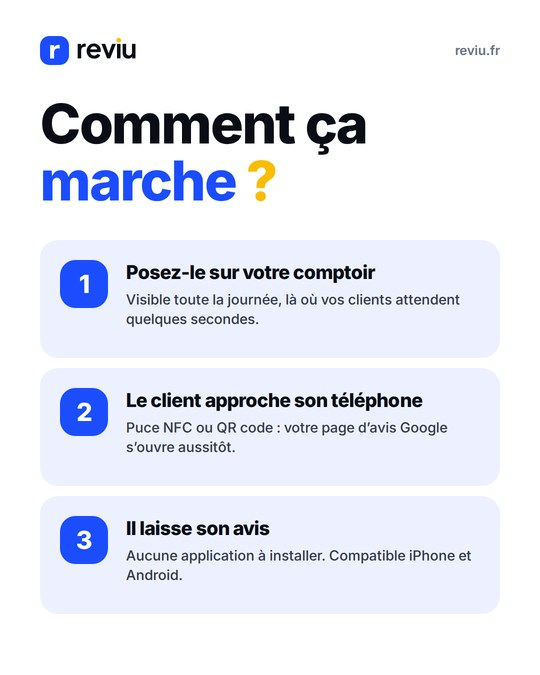
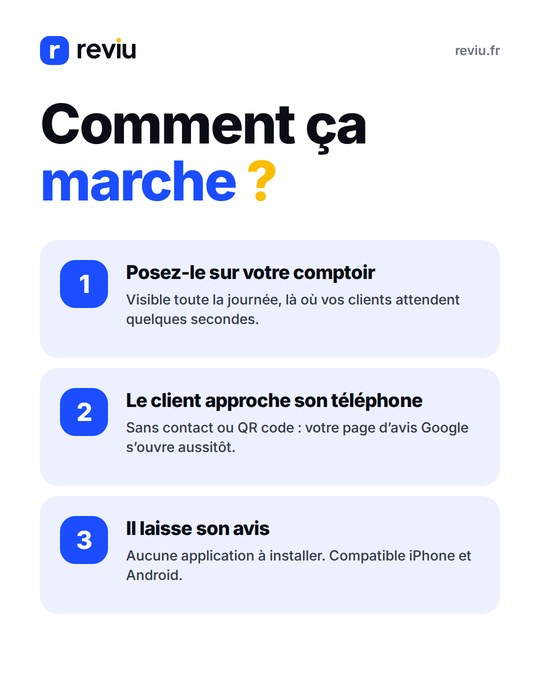
Charte graphique : vocabulaire « Présentoir Reviu » dans les gabarits
Claude-Session: https://claude.ai/code/session_01CiP53sziPvu6eCSHGXHRLu

Changed region(s): [[0.237, 0.6222, 0.8593, 0.6533]]

diff --git a/brand/sources/build.py b/brand/sources/build.py
@@ -146,7 +146,7 @@ def posts():
     inner += HEAD(80, 190, 940, f"Comment ça<br>{c('marche')} {g('?')}", 110)
     steps = [
         ("1", "Posez-le sur votre comptoir", "Visible toute la journée, là où vos clients attendent quelques secondes."),
-        ("2", "Le client approche son téléphone", "Puce NFC ou QR code : votre page d’avis Google s’ouvre aussitôt."),
+        ("2", "Le client approche son téléphone", "Sans contact ou QR code : votre page d’avis Google s’ouvre aussitôt."),
         ("3", "Il laisse son avis", "Aucune application à installer. Compatible iPhone et Android."),
     ]
     y = 480
@@ -171,7 +171,7 @@ def posts():
         inner += T(cx - 70, cy + 44, 140, lab, 22, 700, col, 1.25, 0, "center")
     rows = [
         ("Le client trouve votre fiche sans chercher", "x", "v", "v"),
-        ("Un simple contact suffit (NFC)", "x", "x", "v"),
+        ("Il suffit d’approcher le téléphone", "x", "x", "v"),
         ("Lien modifiable sans rien réimprimer", "x", "x", "v"),
         ("Statistiques de scans", "x", "x", "v"),
     ]
@@ -232,7 +232,7 @@ def stories():
     inner += HEAD(80, 380, 940, f"Un geste<br>{c('suffit')}{g()}", 140)
     inner += T(80, 690, 900, "Le client approche son téléphone du présentoir : votre page d’avis Google s’ouvre, sans application.", 36, 500, SOFT, 1.4)
     inner += P(80, 900, 920, 760, "etape-1.jpg", 48, "50% 50%")
-    o1, w1 = pill(120, 1560, "NFC", 28)
+    o1, w1 = pill(120, 1560, "Sans contact", 28)
     o2, _ = pill(120 + w1 + 14, 1560, "QR code", 28)
     inner += o1 + o2
     ss.append(page(SW, SH, BRUME, inner, "Story 2 - Un geste suffit"))
@@ -277,7 +277,7 @@ def banner_fb():
     W, Hh = 1640, 624
     inner = logo(290, 70, 48, "blanc-sur-cobalt")
     inner += HEAD(290, 162, 720, f"Plus d’avis Google,<br>directement depuis<br>votre comptoir{g()}", 70, WHITE)
-    inner += T(290, 410, 700, "Présentoir NFC et QR code · 29,90 € une seule fois<br>Livraison offerte · Sans abonnement", 24, 600, PALE, 1.5)
+    inner += T(290, 410, 700, "Le présentoir Reviu · 29,90 € une seule fois<br>Livraison offerte · Sans abonnement", 24, 600, PALE, 1.5)
     inner += P(1000, 72, 360, 480, "etape-3.jpg", 40, "42% 55%")
     inner += R(900, 452, 320, 80, WHITE, 40)
     inner += I(924, 479, 142, "icons/stars-5-gold.svg")
@@ -287,7 +287,7 @@ def banner_fb():
 def banner_li():
     W, Hh = 1584, 396
     inner = HEAD(520, 92, 700, f"Plus d’avis Google,<br>directement depuis<br>votre comptoir{g()}", 54, WHITE)
-    inner += T(520, 290, 720, "Présentoir NFC et QR code · reviu.fr", 24, 600, PALE, 1.4)
+    inner += T(520, 290, 720, "Le présentoir Reviu · reviu.fr", 24, 600, PALE, 1.4)
     inner += P(1230, 48, 300, 300, "etape-3.jpg", 32, "50% 55%")
     inner += logo(1300, 0, 1, "blanc-sur-cobalt") if False else ""
     return doc([page(W, Hh, COBALT, inner, "Bannière LinkedIn")], "reviu - Bannière LinkedIn")
@@ -354,7 +354,7 @@ def charte():
         inner += T(x + 34, 374, 480, t, 30, 800, INK, 1.3, -0.02)
         inner += T(x, 432, 500, d, 28, 500, SOFT, 1.5)
     inner += R(120, 700, 1680, 250, BRUME, 40)
-    stats = [("29,90 €", "achat unique"), ("0 €", "d’abonnement"), ("30 jours", "satisfait ou remboursé"), ("NFC + QR", "iPhone et Android")]
+    stats = [("29,90 €", "achat unique"), ("0 €", "d’abonnement"), ("30 jours", "satisfait ou remboursé"), ("1 geste", "sans contact ou QR code")]
     for i, (n, l) in enumerate(stats):
         x = 180 + i * 410
         inner += T(x, 752, 380, n, 72, 800, COBALT, 1.1, -0.04)
@@ -581,8 +581,8 @@ def charte():
     inner += T(1000, 292, 360, "On dit", 26, 800, INK, 1.3)
     inner += I(1370, 294, 36, "icons/cross-muted.svg")
     inner += T(1420, 292, 360, "On évite", 26, 800, INK, 1.3)
-    pairs = [("Le présentoir Reviu", "plaque, borne, support, carte"),
-             ("Votre page d’avis Google s’ouvre", "redirection vers l’URL de la fiche"),
+    pairs = [("Le présentoir Reviu", "présentoir NFC + QR, plaque, borne"),
+             ("Sans contact ou QR code", "puce NFC, encodage, redirection"),
              ("29,90 € une seule fois", "offre exceptionnelle, prix choc"),
              ("Vous", "tu"),
              ("Plus d’avis, plus de clients", "révolutionnaire, n°1, magique")]

diff --git a/brand/README.md b/brand/README.md
@@ -35,6 +35,10 @@ monogramme porte le point doré (icône, favicon, avatar).
 | Perle | `#F5F6F8` | Fonds neutres |
 | Ardoise | `#6B7382` | Textes secondaires |
 
+**Nom du produit** : « Présentoir Reviu » (descripteur SEO : « présentoir
+avis Google »). Le geste s'explique par « sans contact ou QR code » ; jamais
+« présentoir NFC + QR » dans le discours.
+
 **Typographie** : Plus Jakarta Sans pour l'identité (logo, site web, print).
 Dans Canva, tout le texte est en **Inter** (gratuite dans Canva ; Plus Jakarta
 Sans n'y est pas reconnue à l'import). Titres en ExtraBold, interlettrage -3 %.
